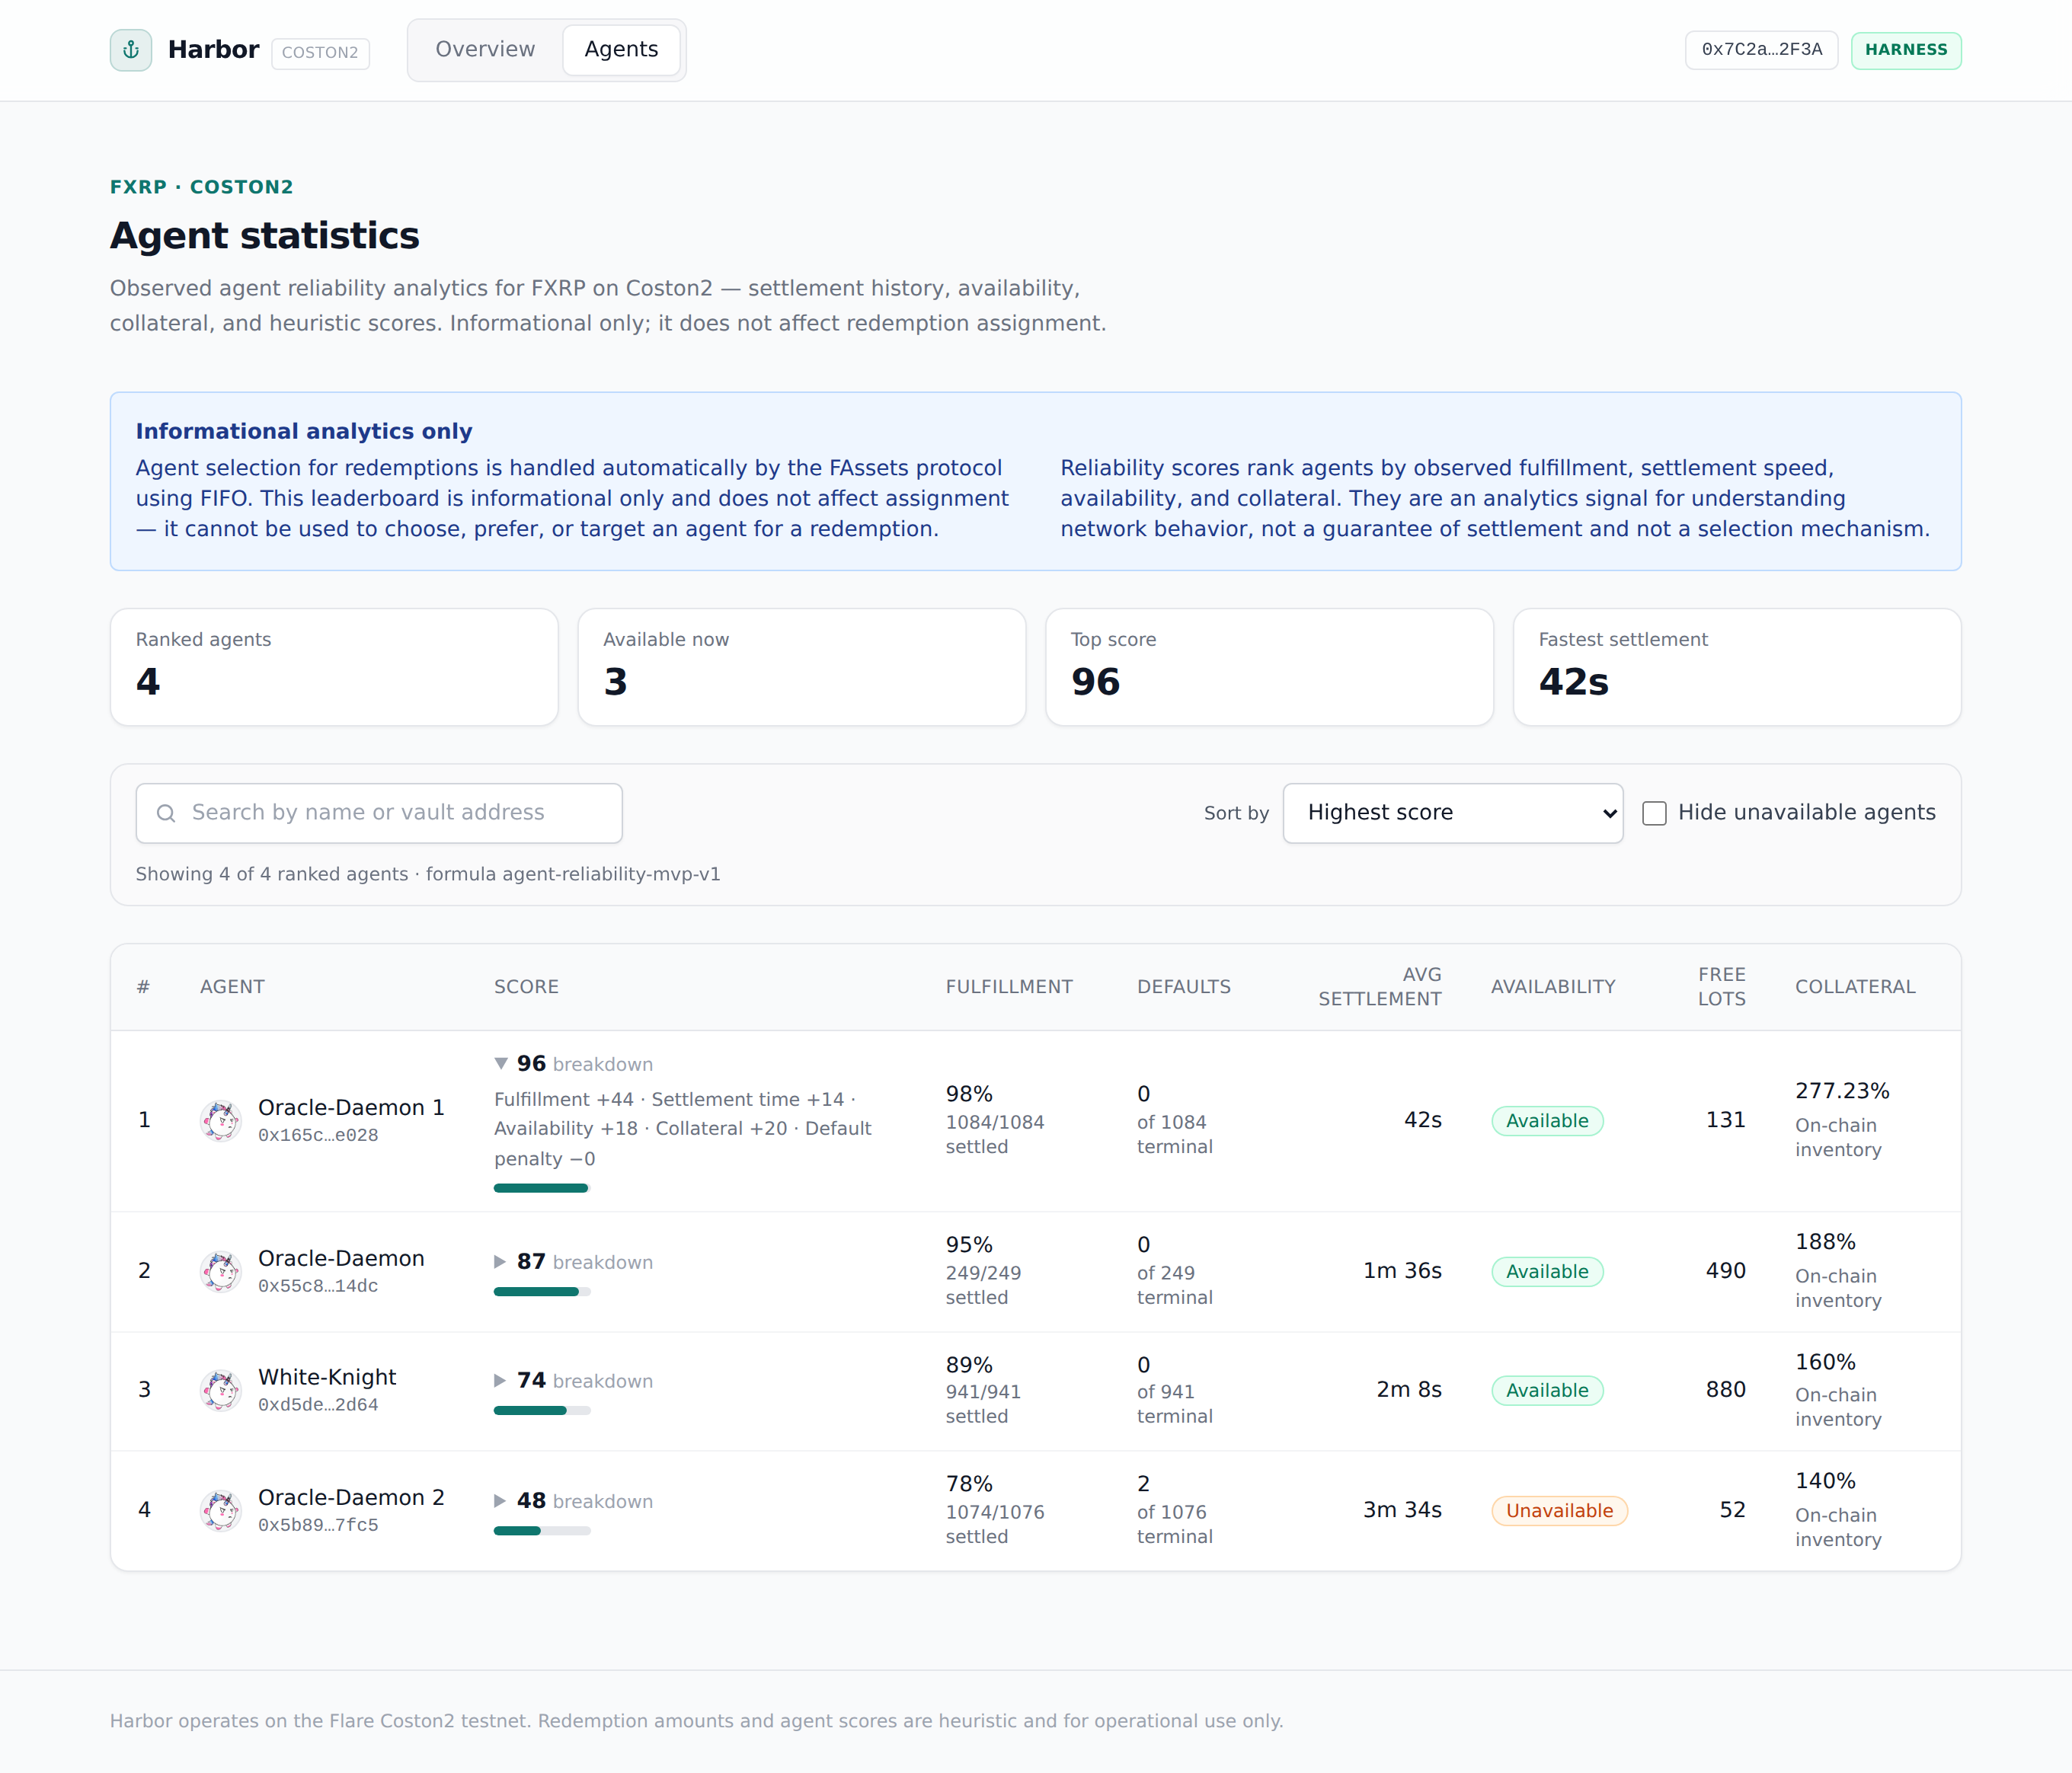
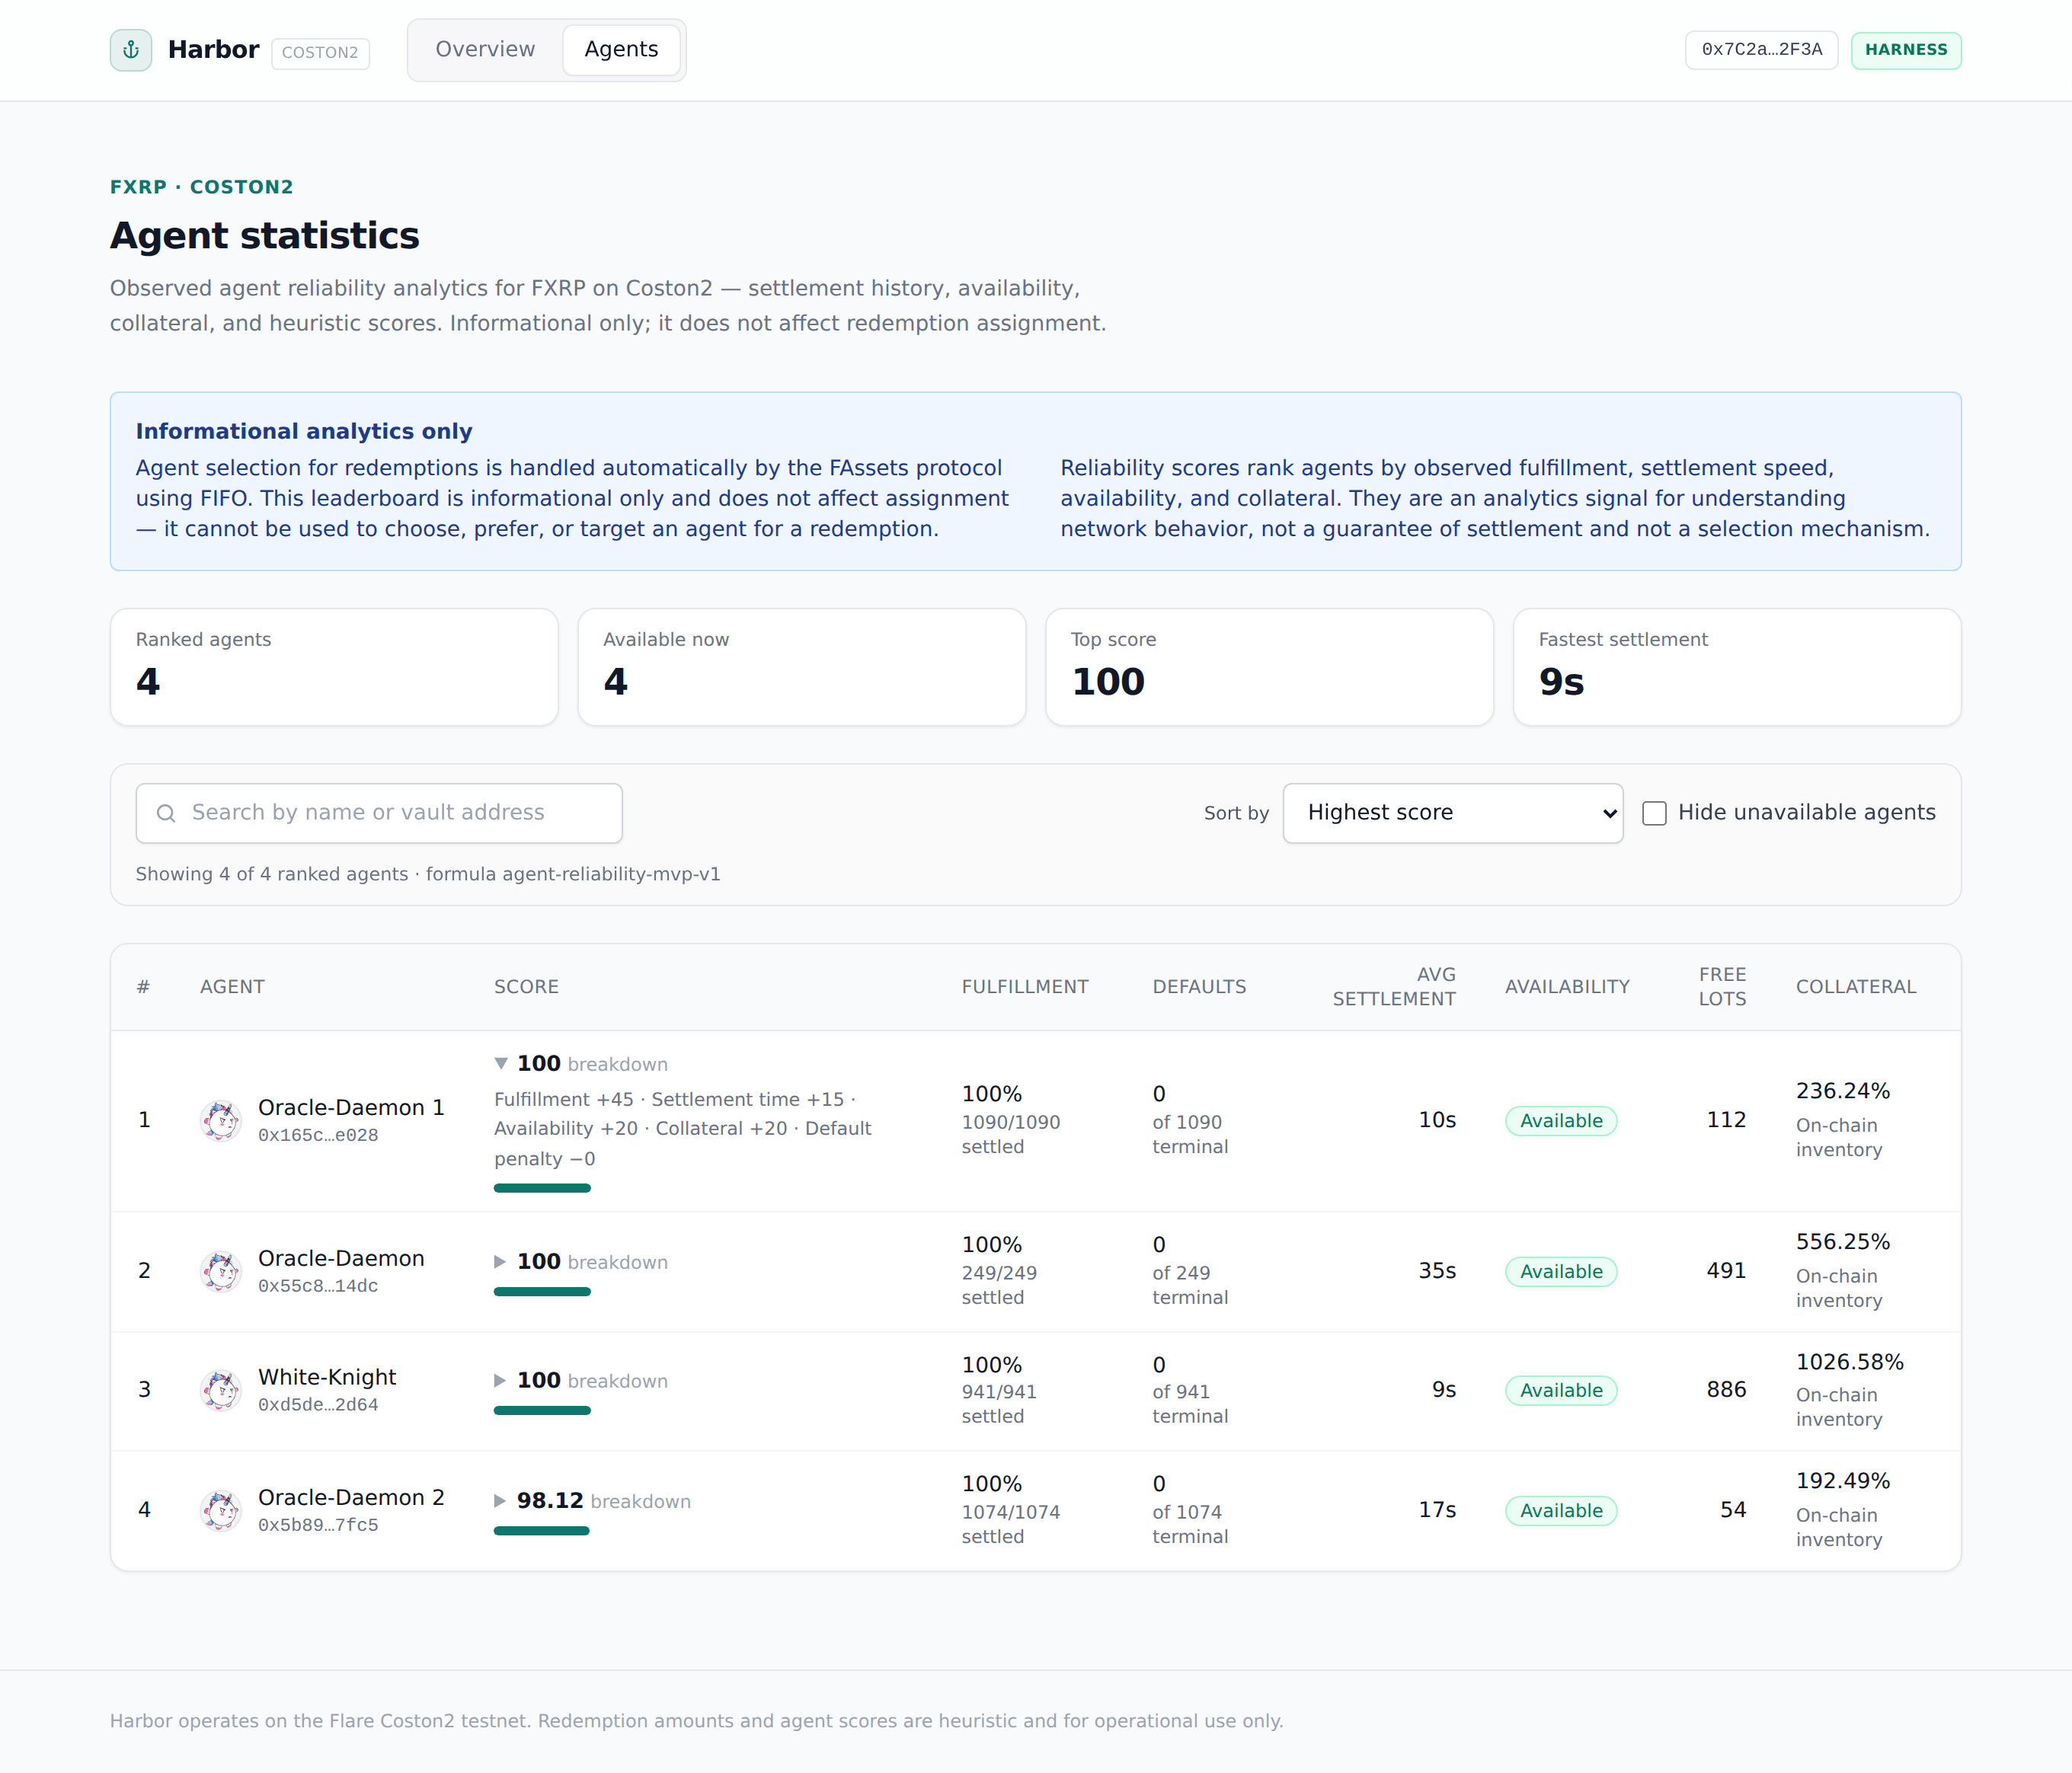
docs: align agent-statistics screenshot with live API agent scores

diff --git a/apps/web/src/app/harness/harness-data.ts b/apps/web/src/app/harness/harness-data.ts
@@ -62,10 +62,12 @@ export const HARNESS_MERKLE_PROOF: readonly string[] = [
[1 lines of base64/hex data omitted]
 ];
 
-// Official agent vaults/names mirror the live FAssets registry (read from the
-// production API). Scores are realistic, varied heuristics (42–100) with a
-// transparent term-by-term breakdown so the leaderboard demonstrates the
-// breakdown affordance — they are NOT the live scores.
+// Official agent vaults/names/icons AND scores/breakdowns mirror the live
+// FAssets registry verbatim — read from the production API
+// (api-production-6f3ec.up.railway.app/agents?asset=FXRP) so the leaderboard
+// screenshot is a faithful snapshot of the real Coston2 agent reliability
+// state, not fabricated data. Only the iconUrl is repointed to the locally
+// served PNG so the screenshot run is offline and deterministic.
 export type HarnessAgent = RankedAgent;
 
 const baseAgent = {
@@ -73,27 +75,27 @@ const baseAgent = {
   formulaVersion: "agent-reliability-mvp-v1",
   collateralRatioSource: "INVENTORY" as const,
   ftsoStatus: "AVAILABLE" as const,
-  updatedAt: "2026-07-13T09:12:50.608Z",
+  updatedAt: "2026-07-19T11:48:15.819Z",
 };
 
 export const HARNESS_AGENTS: readonly RankedAgent[] = [
   {
     ...baseAgent,
     agentVault: "0x165c62b4531d28e34c68a8b2acbf4d0421e4e028",
-    score: 96,
-    fulfillmentRate: 0.98,
-    fulfillmentScore: 44,
-    settlementTimeScore: 14,
+    score: 100,
+    fulfillmentRate: 1,
+    fulfillmentScore: 45,
+    settlementTimeScore: 15,
     defaultPenalty: 0,
-    availabilityScore: 18,
+    availabilityScore: 20,
     collateralScore: 20,
-    successfulRedemptions: 1084,
+    successfulRedemptions: 1090,
     defaultedRedemptions: 0,
-    totalTerminalRedemptions: 1084,
-    averageSettlementSeconds: 42,
+    totalTerminalRedemptions: 1090,
+    averageSettlementSeconds: 10,
     availability: "AVAILABLE",
-    availableLots: "131",
-    collateralRatioBips: "27723",
+    availableLots: "112",
+    collateralRatioBips: "23624",
     details: {
       name: "Oracle-Daemon 1",
       description: "Oracle Daemon auxiliary agent bot",
@@ -104,20 +106,20 @@ export const HARNESS_AGENTS: readonly RankedAgent[] = [
   {
     ...baseAgent,
     agentVault: "0x55c815260cbe6c45fe5bfe5ff32e3c7d746f14dc",
-    score: 87,
-    fulfillmentRate: 0.95,
-    fulfillmentScore: 42,
-    settlementTimeScore: 13,
+    score: 100,
+    fulfillmentRate: 1,
+    fulfillmentScore: 45,
+    settlementTimeScore: 15,
     defaultPenalty: 0,
-    availabilityScore: 15,
-    collateralScore: 17,
+    availabilityScore: 20,
+    collateralScore: 20,
     successfulRedemptions: 249,
     defaultedRedemptions: 0,
     totalTerminalRedemptions: 249,
-    averageSettlementSeconds: 96,
+    averageSettlementSeconds: 35,
     availability: "AVAILABLE",
-    availableLots: "490",
-    collateralRatioBips: "18800",
+    availableLots: "491",
+    collateralRatioBips: "55625",
     details: {
       name: "Oracle-Daemon",
       description: "Oracle Daemon agent bot open beta",
@@ -128,20 +130,20 @@ export const HARNESS_AGENTS: readonly RankedAgent[] = [
   {
     ...baseAgent,
     agentVault: "0xd5defe2c62d48788bb3889534fbfe7aea0602d64",
-    score: 74,
-    fulfillmentRate: 0.89,
-    fulfillmentScore: 40,
-    settlementTimeScore: 11,
+    score: 100,
+    fulfillmentRate: 1,
+    fulfillmentScore: 45,
+    settlementTimeScore: 15,
     defaultPenalty: 0,
-    availabilityScore: 13,
-    collateralScore: 10,
+    availabilityScore: 20,
+    collateralScore: 20,
     successfulRedemptions: 941,
     defaultedRedemptions: 0,
     totalTerminalRedemptions: 941,
-    averageSettlementSeconds: 128,
+    averageSettlementSeconds: 9,
     availability: "AVAILABLE",
-    availableLots: "880",
-    collateralRatioBips: "16000",
+    availableLots: "886",
+    collateralRatioBips: "102658",
     details: {
       name: "White-Knight",
       description: "Friendly liquidator for open beta",
@@ -152,20 +154,20 @@ export const HARNESS_AGENTS: readonly RankedAgent[] = [
   {
     ...baseAgent,
     agentVault: "0x5b89514d1f060adbea8b7294aff81ed8dbaa7fc5",
-    score: 48,
-    fulfillmentRate: 0.78,
-    fulfillmentScore: 35,
-    settlementTimeScore: 8,
-    defaultPenalty: 10,
-    availabilityScore: 10,
-    collateralScore: 5,
+    score: 98.12,
+    fulfillmentRate: 1,
+    fulfillmentScore: 45,
+    settlementTimeScore: 15,
+    defaultPenalty: 0,
+    availabilityScore: 20,
+    collateralScore: 18.12,
     successfulRedemptions: 1074,
-    defaultedRedemptions: 2,
-    totalTerminalRedemptions: 1076,
-    averageSettlementSeconds: 214,
-    availability: "UNAVAILABLE",
-    availableLots: "52",
-    collateralRatioBips: "14000",
+    defaultedRedemptions: 0,
+    totalTerminalRedemptions: 1074,
+    averageSettlementSeconds: 17,
+    availability: "AVAILABLE",
+    availableLots: "54",
+    collateralRatioBips: "19249",
     details: {
       name: "Oracle-Daemon 2",
       description: "Oracle Daemon auxiliary agent bot",